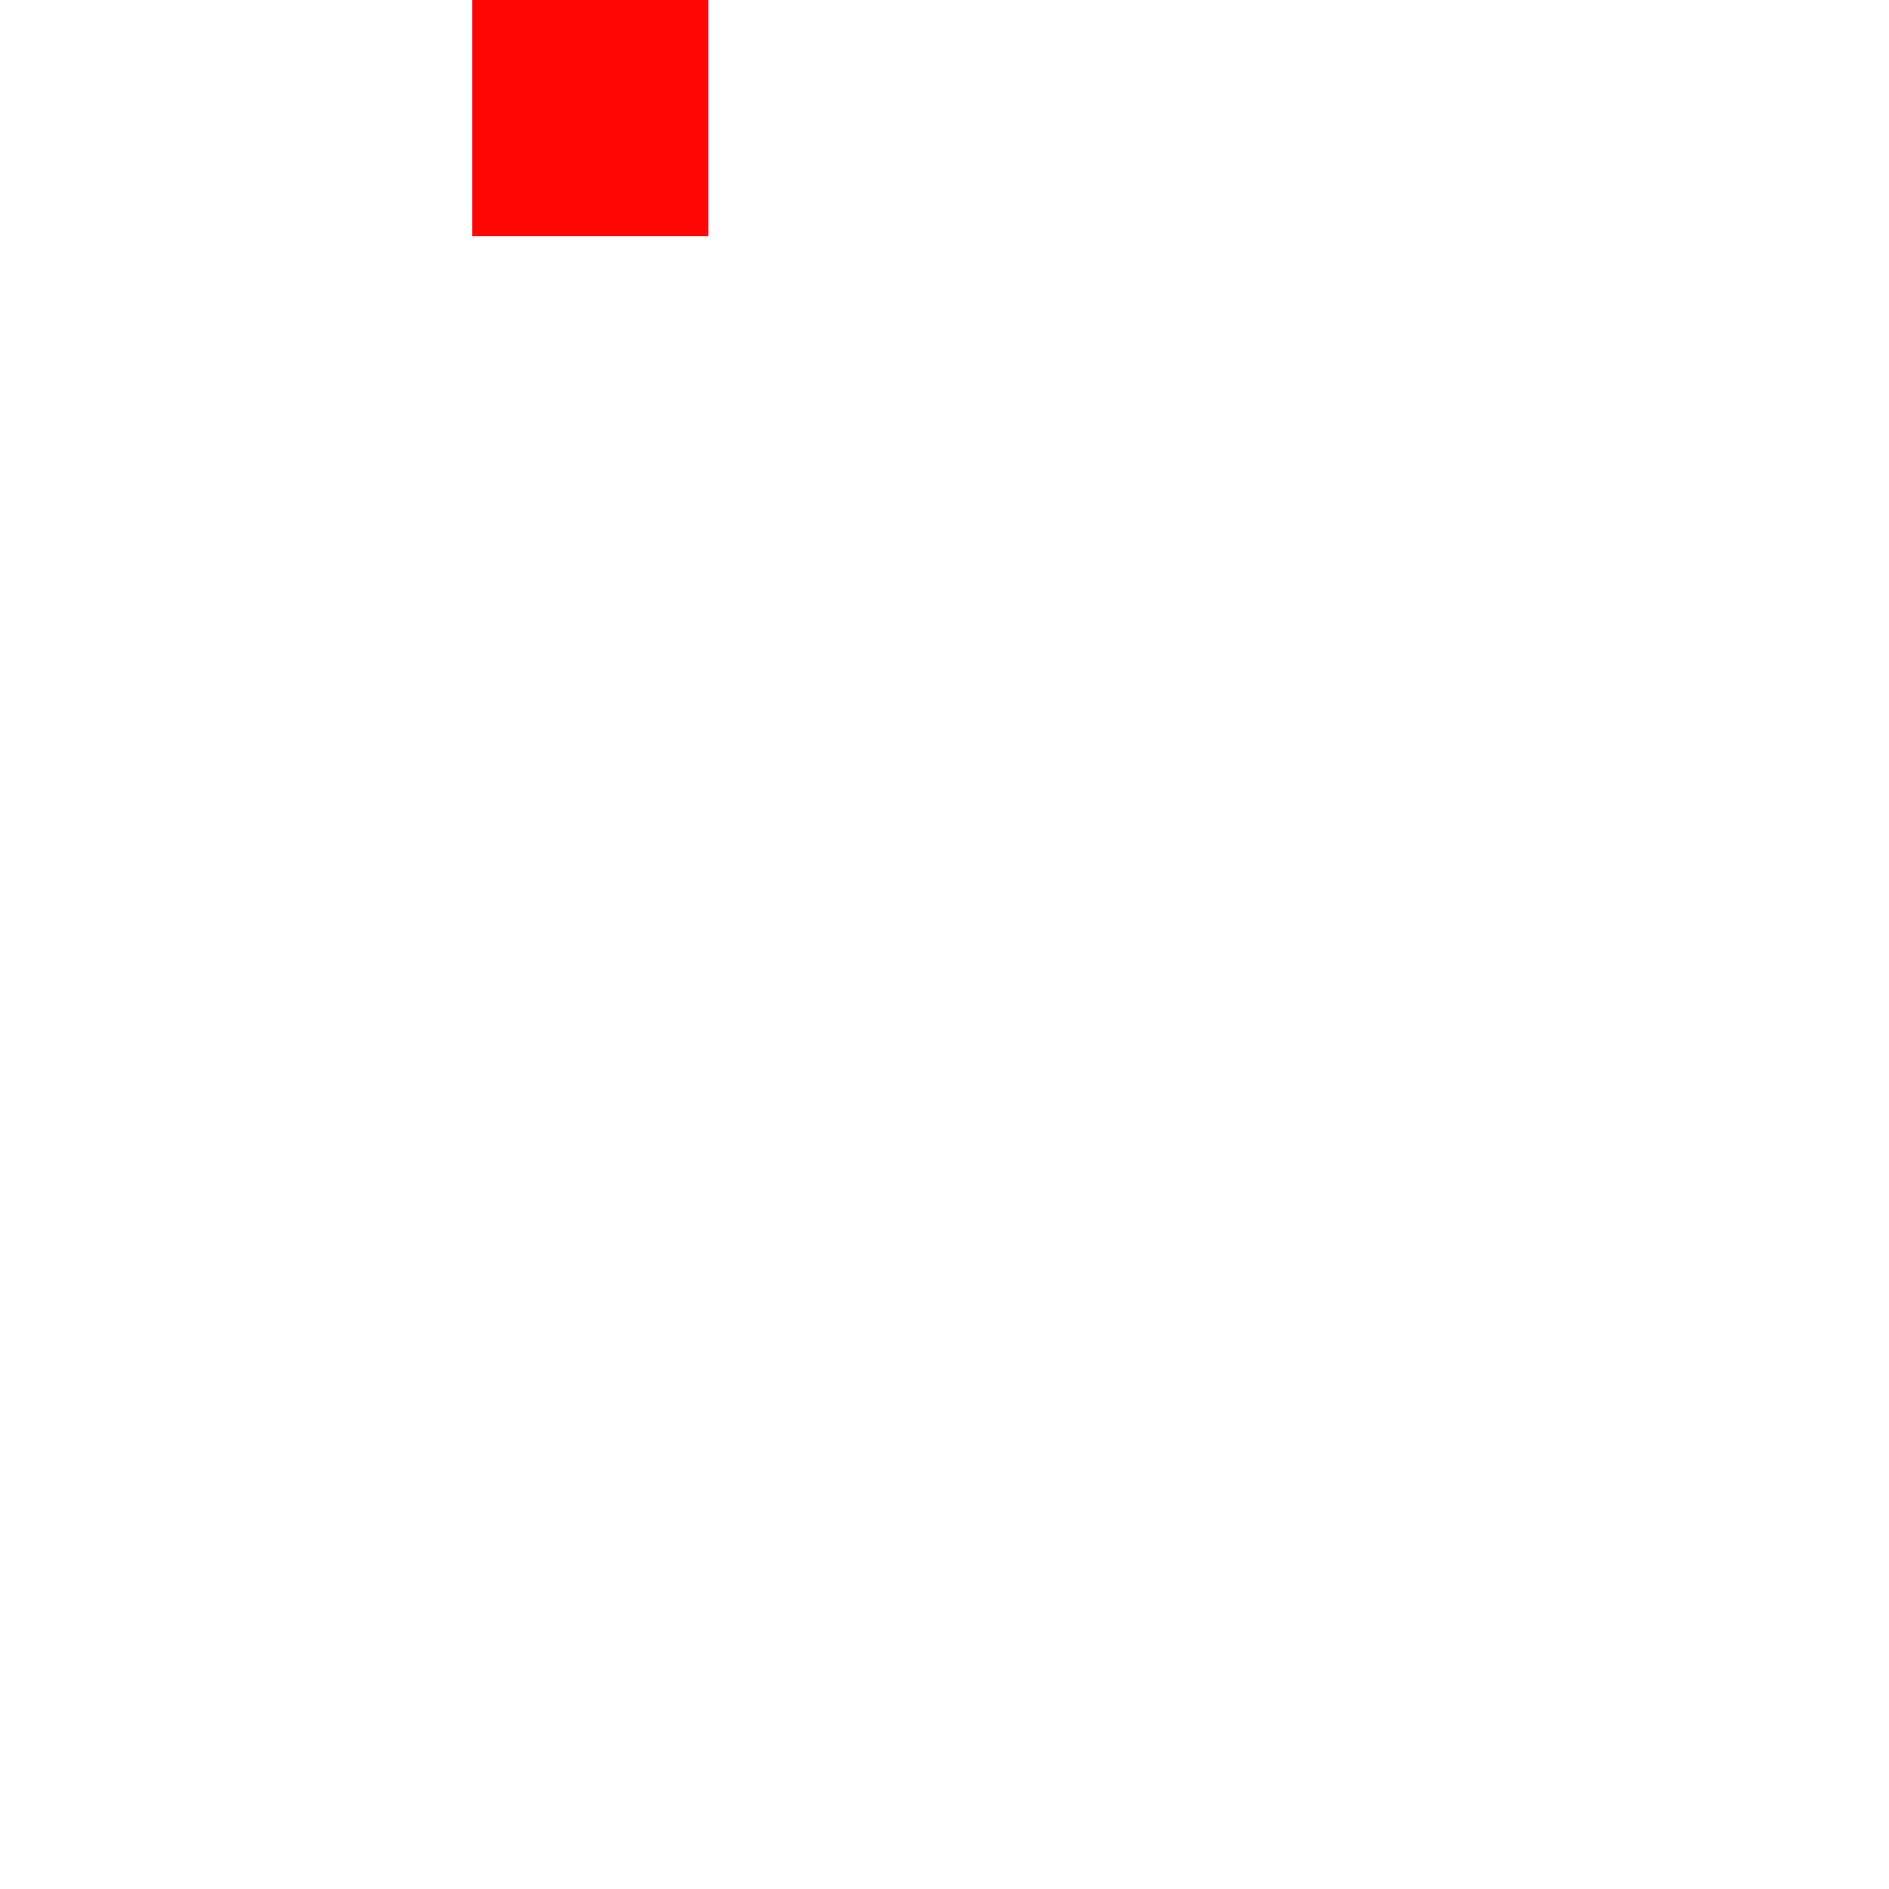
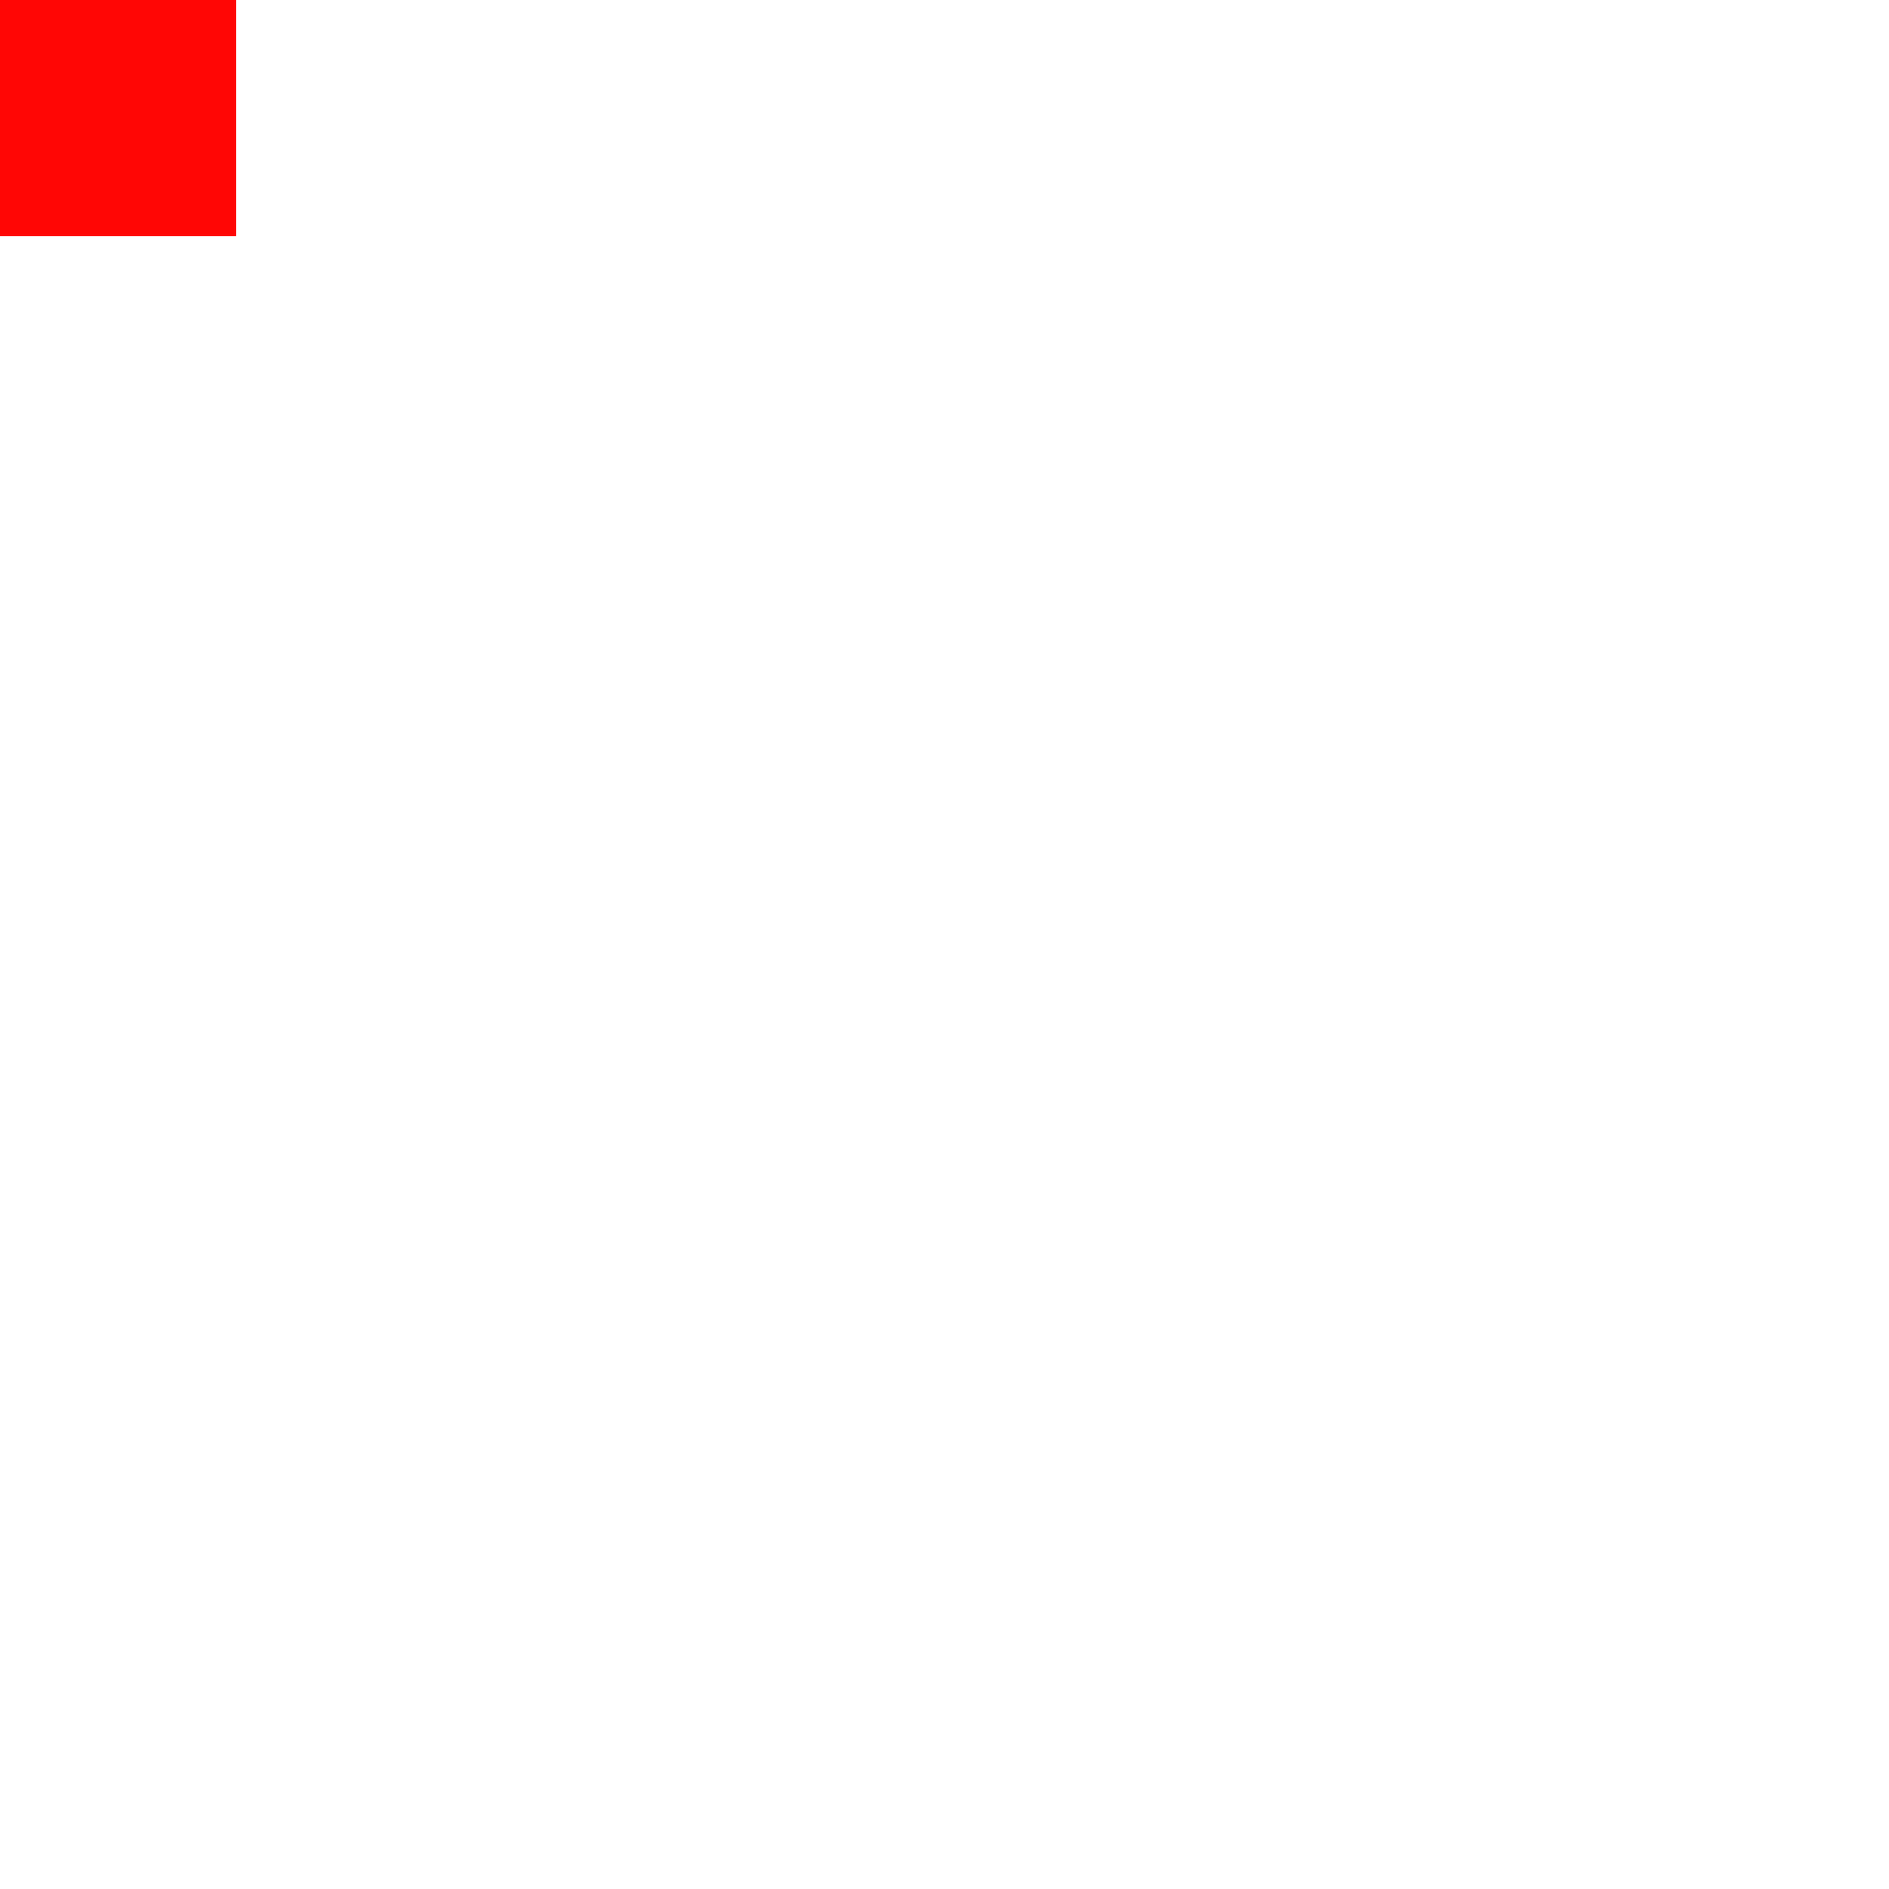
[MapEditor] merge texture 인덱스 공유하는 현상을 수정

Changed region(s): [[0.25, 0.0, 0.375, 0.125], [0.0, 0.0, 0.125, 0.125]]

diff --git a/Assets/Script/Editor/Tools/KompileMapEditorWindow.cs b/Assets/Script/Editor/Tools/KompileMapEditorWindow.cs
@@ -11,6 +11,7 @@ namespace Script.Map.Editor
 
     /// <summary>
     /// [Framework] Editor Manager: 멀티 아틀라스 팔레트, 스포이드, Focus Mode를 지원하는 통합 맵 에디터입니다.
+    /// [고도화] 각 텍스처 폴더별 독립적인 MapTextureTable을 읽어와 아틀라스 인덱스를 낭비 없이 관리합니다.
     /// </summary>
     public class KompileMapEditorWindow : EditorWindow
     {
@@ -21,7 +22,7 @@ namespace Script.Map.Editor
         private SelectionMode _currentSelection = SelectionMode.Vertex;
 
         private bool _isEditingEnabled = false;
-        private bool _isAltPressed = false; // 스포이드 트리거
+        private bool _isAltPressed = false;
 
         private static readonly Vector2[] PointOffsets = new Vector2[]
         {
@@ -52,7 +53,6 @@ namespace Script.Map.Editor
         private int _selectedAtlasPageIndex = 0;
 
         private const string ROOT_INPUT_PATH = "Assets/Rcs/Map";
-        private const string TABLE_ASSET_PATH = "Assets/Rcs/Map/MapTextureTable.asset";
 
         private int _brushTopIndex = 0;
         private Texture2D _brushTopAtlas = null;
@@ -90,18 +90,22 @@ namespace Script.Map.Editor
 
             if (!Directory.Exists(ROOT_INPUT_PATH)) return;
 
-            MapTextureTable textureTable = AssetDatabase.LoadAssetAtPath<MapTextureTable>(TABLE_ASSET_PATH);
-            if (textureTable == null)
-            {
-                Debug.LogWarning("[Framework] MapTextureTable 에셋을 찾을 수 없습니다. 병합기를 먼저 실행해주세요.");
-                return;
-            }
-
             string[] directories = Directory.GetDirectories(ROOT_INPUT_PATH);
 
             foreach (var dir in directories)
             {
                 string folderName = new DirectoryInfo(dir).Name;
+
+                // [핵심 변경] 전역 테이블 대신 해당 폴더(디렉토리) 내부의 로컬 테이블을 불러옵니다.
+                string tablePath = $"{dir}/MapTextureTable.asset";
+                MapTextureTable textureTable = AssetDatabase.LoadAssetAtPath<MapTextureTable>(tablePath);
+
+                if (textureTable == null)
+                {
+                    Debug.LogWarning($"[Framework] {folderName} 폴더에 MapTextureTable 에셋이 없습니다. 병합기를 먼저 실행해주세요.");
+                    continue;
+                }
+
                 var allFiles = Directory.GetFiles(dir, "*.png").Where(f => !Path.GetFileName(f).StartsWith("merged-")).ToList();
 
                 Dictionary<int, string> validFiles = new Dictionary<int, string>();
@@ -228,7 +232,10 @@ namespace Script.Map.Editor
             if (GUILayout.Button("Bake Map (Combine Meshes)", GUILayout.Height(40)))
             {
                 ExecuteOptimizeMesh();
-                if (EditorUtility.DisplayDialog("Bake Map", "맵 데이터를 구우시겠습니까?", "Bake", "Cancel")) ExecuteBake();
+                if (EditorUtility.DisplayDialog("Bake Map", "맵 데이터를 구우시겠습니까?", "Bake", "Cancel"))
+                {
+                    ExecuteBake();
+                }
             }
         }
 
@@ -397,32 +404,33 @@ namespace Script.Map.Editor
 
             if (e.type != EventType.Layout && e.type != EventType.Repaint)
             {
-                GameObject picked = HandleUtility.PickGameObject(e.mousePosition, false);
-                if (picked != null)
-                {
-                    var found = picked.GetComponentInParent<EditMapTileComponent>();
-                    if (found != null && (_isAltPressed || Mathf.Abs(found.transform.position.y - _targetY) < 0.1f)) hitTile = found;
-                }
+                float minDistanceToVertex = 40f;
+                EditMapTileComponent bestTile = null;
 
-                if (hitTile == null)
+                foreach (var tile in _cachedTiles)
                 {
-                    Plane gridPlane = new Plane(Vector3.up, new Vector3(0, _targetY, 0));
-                    if (gridPlane.Raycast(ray, out float enter))
+                    if (tile == null) continue;
+                    if (_focusSelectedLayer && tile.RenderLayer != _targetRenderLayer) continue;
+                    if (!_isAltPressed && Mathf.Abs(tile.transform.position.y - _targetY) > 0.1f) continue;
+
+                    for (int i = 0; i < 13; i++)
                     {
-                        Vector3 hitPos = ray.GetPoint(enter);
-                        foreach (var t in _cachedTiles)
-                        {
-                            if (t == null) continue;
-                            if (!_isAltPressed && Mathf.Abs(t.transform.position.y - _targetY) > 0.1f) continue;
+                        Vector3 pointPos = tile.transform.TransformPoint(new Vector3(PointOffsets[i].x, tile.GetPointLocalPos(i).y, PointOffsets[i].y));
+                        Vector2 guiPoint = HandleUtility.WorldToGUIPoint(pointPos);
+                        float dist = Vector2.Distance(guiPoint, e.mousePosition);
 
-                            Vector3 tPos = t.transform.position;
-                            if (hitPos.x >= tPos.x - 0.2f && hitPos.x <= tPos.x + 1.2f && hitPos.z >= tPos.z - 0.2f && hitPos.z <= tPos.z + 1.2f)
-                            {
-                                hitTile = t;
-                                break;
-                            }
+                        if (dist < minDistanceToVertex)
+                        {
+                            minDistanceToVertex = dist;
+                            bestTile = tile;
                         }
                     }
+                }
+                hitTile = bestTile;
+
+                if (_lastHoveredTile != hitTile)
+                {
+                    sceneView.Repaint();
                 }
                 _lastHoveredTile = hitTile;
             }
@@ -569,16 +577,13 @@ namespace Script.Map.Editor
 
         private void HandleHeightMode(EditMapTileComponent tile, Ray ray, Event e, int controlID)
         {
-            int nearIdx = 0;
-            float floatMinDist = float.MaxValue;
+            int nearIdx = -1;
+            float floatMinDist = 40f;
 
-            // 2D GUI 기반 버텍스 픽킹을 통해 메쉬가 지워져 있어도 구체를 조준할 수 있습니다.
-            for (int i = 0; i < PointOffsets.Length; i++)
+            for (int i = 0; i < 13; i++)
             {
-                Vector3 pPos = new Vector3(PointOffsets[i].x, tile.GetPointLocalPos(i).y, PointOffsets[i].y);
-                Vector3 worldPos = tile.transform.TransformPoint(pPos);
-
-                Vector2 guiPos = HandleUtility.WorldToGUIPoint(worldPos);
+                Vector3 pPos = tile.transform.TransformPoint(new Vector3(PointOffsets[i].x, tile.GetPointLocalPos(i).y, PointOffsets[i].y));
+                Vector2 guiPos = HandleUtility.WorldToGUIPoint(pPos);
                 float d = Vector2.Distance(guiPos, e.mousePosition);
 
                 if (d < floatMinDist)
@@ -592,25 +597,17 @@ namespace Script.Map.Editor
             {
                 DrawCustomGrid(tile.transform.position);
 
-                foreach (int idx in (_currentSelection == SelectionMode.Vertex ? new int[] { nearIdx } : Enumerable.Range(0, 13)))
+                if (nearIdx != -1 && _currentSelection == SelectionMode.Vertex)
                 {
-                    sbyte currentHeight = tile.GetHeightData(idx);
-                    Handles.color = (currentHeight == -1) ? Color.red : Color.yellow;
-
-                    Vector3 pPos = new Vector3(PointOffsets[idx].x, tile.GetPointLocalPos(idx).y, PointOffsets[idx].y);
-                    float handleSize = (idx == nearIdx && _currentSelection == SelectionMode.Vertex) ? 0.12f : 0.08f;
-                    Handles.SphereHandleCap(0, tile.transform.TransformPoint(pPos), Quaternion.identity, handleSize, EventType.Repaint);
+                    Vector3 pPos = tile.transform.TransformPoint(new Vector3(PointOffsets[nearIdx].x, tile.GetPointLocalPos(nearIdx).y, PointOffsets[nearIdx].y));
+                    Handles.color = Color.yellow;
+                    Handles.SphereHandleCap(0, pPos, Quaternion.identity, 0.12f, EventType.Repaint);
                 }
             }
 
-            if (e.type == EventType.MouseDown && e.button == 0 && !e.alt)
+            if (e.type == EventType.MouseDown && e.button == 0 && !e.alt && nearIdx != -1)
             {
-                // 클릭 거리가 너무 멀면 무시 (허공 클릭 시 엉뚱한 점이 반응하는 것 방지)
-                if (_currentSelection == SelectionMode.Vertex && floatMinDist > 40f) return;
-
                 GUIUtility.hotControl = controlID;
-
-                // e.shift가 눌려있으면 -1, 아니면 1을 더해 높이를 수정합니다. (-1 상태에서 1을 더하면 0이 되어 복구됨)
                 int delta = e.shift ? -1 : 1;
                 Undo.RecordObject(tile, "Adjust Height");
 

diff --git a/Assets/Script/Tools/Editor/Map/EditTextureMerger.cs b/Assets/Script/Tools/Editor/Map/EditTextureMerger.cs
@@ -9,7 +9,6 @@ using UnityEngine;
 public class EditTextureMerger : MonoBehaviour
 {
     private const string ROOT_INPUT_PATH = "Assets/Rcs/Map";
-    private const string TABLE_ASSET_PATH = "Assets/Rcs/Map/MapTextureTable.asset";
 
     private const int TARGET_TEXTURE_WIDTH = 2048;
     private const int TARGET_TEXTURE_HEIGHT = 2048;
@@ -25,14 +24,6 @@ public class EditTextureMerger : MonoBehaviour
         string[] directories = Directory.GetDirectories(ROOT_INPUT_PATH);
         if (directories.Length == 0) return;
 
-        MapTextureTable textureTable = AssetDatabase.LoadAssetAtPath<MapTextureTable>(TABLE_ASSET_PATH);
-        if (textureTable == null)
-        {
-            textureTable = ScriptableObject.CreateInstance<MapTextureTable>();
-            AssetDatabase.CreateAsset(textureTable, TABLE_ASSET_PATH);
-            AssetDatabase.SaveAssets(); // [안전장치] 생성 직후 디스크에 고정
-        }
-
         int totalMergedCount = 0;
         try
         {
@@ -42,19 +33,31 @@ public class EditTextureMerger : MonoBehaviour
             {
                 string dirPath = directories[i];
                 string folderName = new DirectoryInfo(dirPath).Name;
-                totalMergedCount += ProcessFolder(dirPath, folderName, textureTable);
+
+                // [핵심 변경 1] 각 폴더 전용 로컬 테이블을 찾거나 생성합니다.
+                string localTablePath = $"{dirPath}/MapTextureTable.asset";
+                MapTextureTable localTable = AssetDatabase.LoadAssetAtPath<MapTextureTable>(localTablePath);
+
+                if (localTable == null)
+                {
+                    localTable = ScriptableObject.CreateInstance<MapTextureTable>();
+                    AssetDatabase.CreateAsset(localTable, localTablePath);
+                    AssetDatabase.SaveAssets(); // 생성 직후 디스크 고정
+                }
+
+                totalMergedCount += ProcessFolder(dirPath, folderName, localTable);
+
+                // 해당 폴더의 테이블 작업이 끝났으므로 저장
+                EditorUtility.SetDirty(localTable);
                 EditorUtility.DisplayProgressBar("Merging Textures", $"Processing {folderName}...", (float)(i + 1) / directories.Length);
             }
         }
         finally
         {
             EditorUtility.ClearProgressBar();
-
-            // [안전장치] 변경된 테이블을 강제로 저장하고 에셋 데이터베이스 리프레시
-            EditorUtility.SetDirty(textureTable);
             AssetDatabase.SaveAssets();
             AssetDatabase.Refresh();
-            Debug.Log($"[Framework] 텍스처 병합 완료! 총 {totalMergedCount}개의 아틀라스가 생성/갱신되었습니다.");
+            Debug.Log($"[Framework] 폴더별 독립 아틀라스 병합 완료! 총 {totalMergedCount}개의 아틀라스 페이지가 생성/갱신되었습니다.");
         }
     }
 
@@ -72,6 +75,7 @@ public class EditTextureMerger : MonoBehaviour
         foreach (string file in allFiles)
         {
             string fileNameNoExt = Path.GetFileNameWithoutExtension(file);
+            // 해당 폴더 전용 테이블에서 인덱스를 발급받습니다. (항상 0번부터 시작)
             int index = table.GetOrAssignIndex(fileNameNoExt);
 
             if (!validFiles.ContainsKey(index)) validFiles.Add(index, file);
